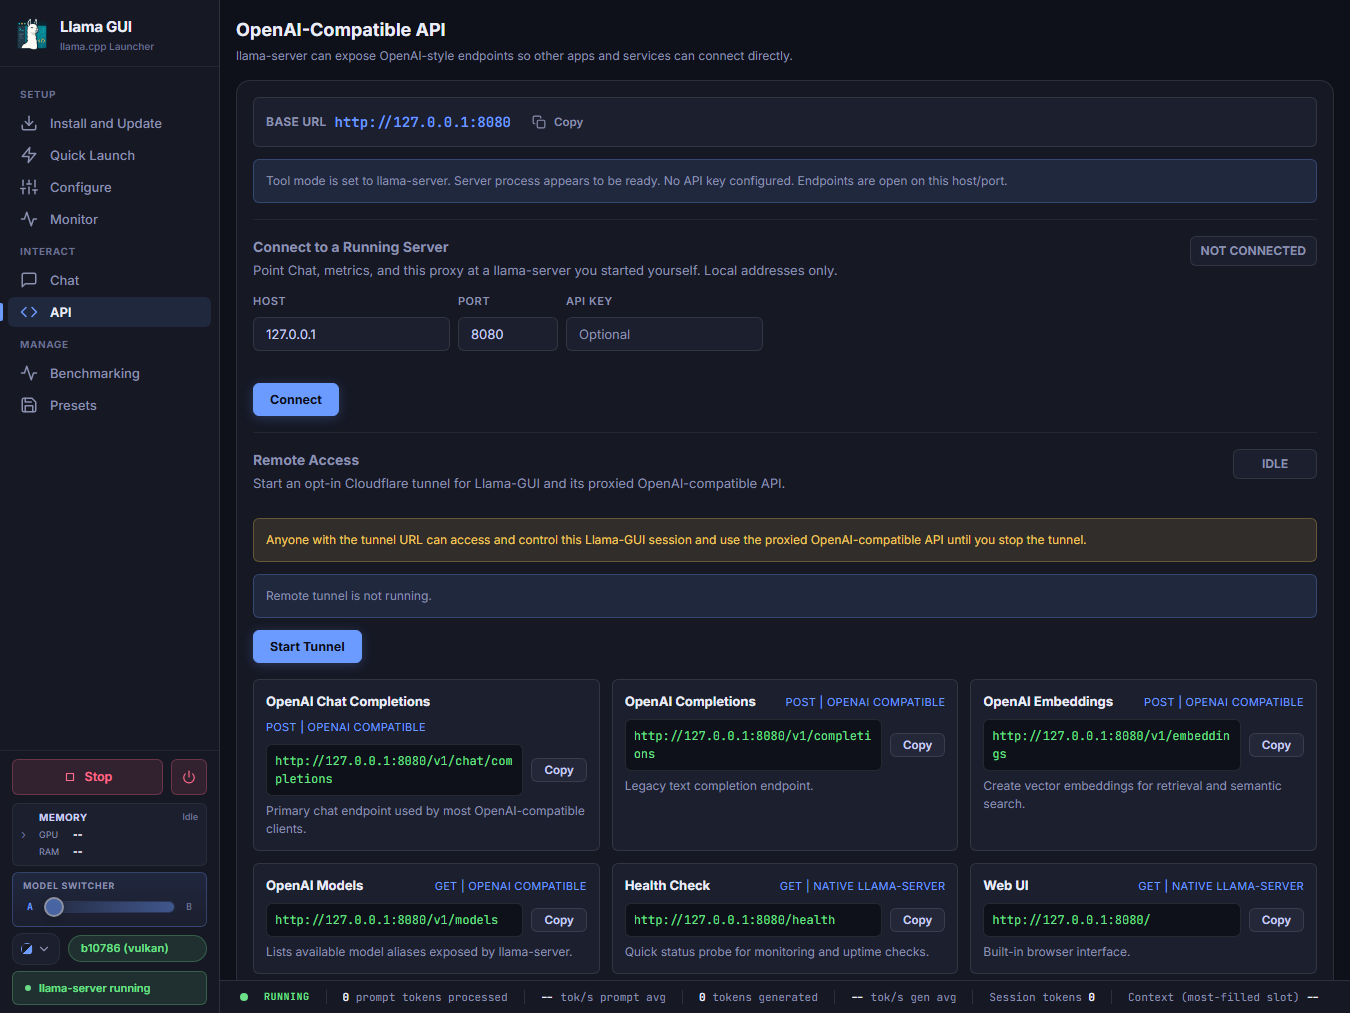
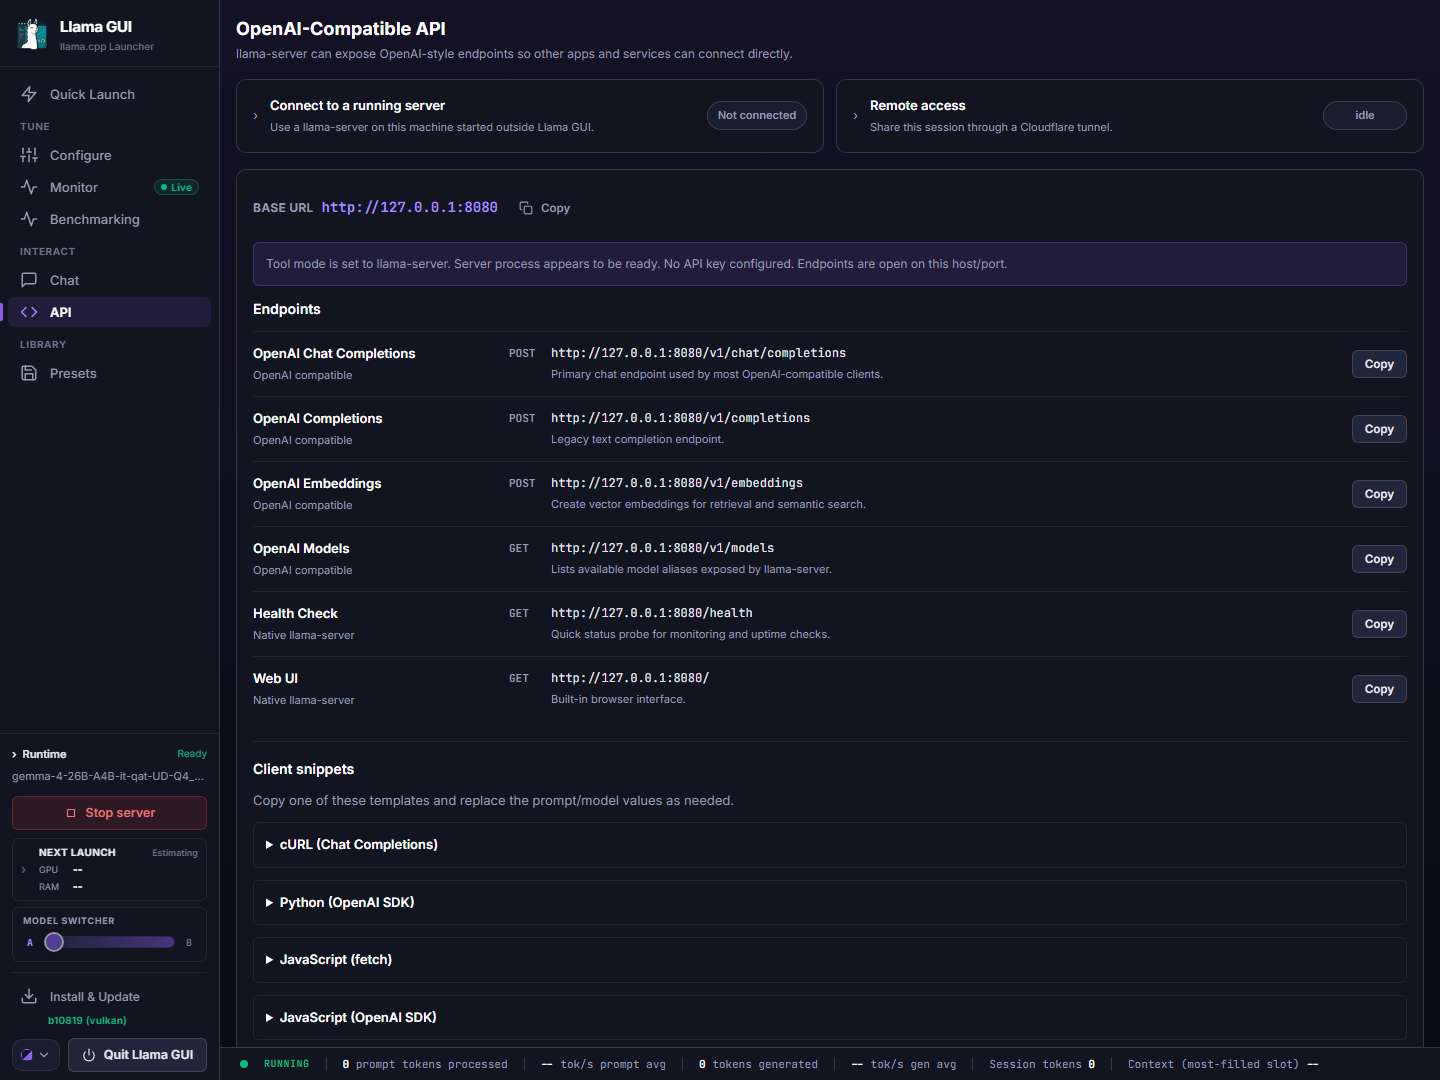
Update README screenshots for Nebula theme

diff --git a/README.md b/README.md
@@ -125,6 +125,8 @@ If you use [Pinokio](https://pinokio.computer/), install via [thomas9120/llama-g
 
 ## Screenshots
 
+Current interface in the **Nebula** theme.
+
 | Quick Launch | Configure |
 | --- | --- |
 | ![Quick Launch tab](docs/images/quick-launch.png) | ![Configure tab](docs/images/configure.png) |
@@ -133,9 +135,9 @@ If you use [Pinokio](https://pinokio.computer/), install via [thomas9120/llama-g
 | --- | --- |
 | ![Chat tab](docs/images/chat.png) | ![API tab](docs/images/api.png) |
 
-| Install | Presets |
+| Install & Update | Presets |
 | --- | --- |
-| ![Install tab](docs/images/install.png) | ![Presets tab](docs/images/presets.png) |
+| ![Install & Update tab](docs/images/install.png) | ![Presets tab](docs/images/presets.png) |
 
 | Monitor |
 | --- |
